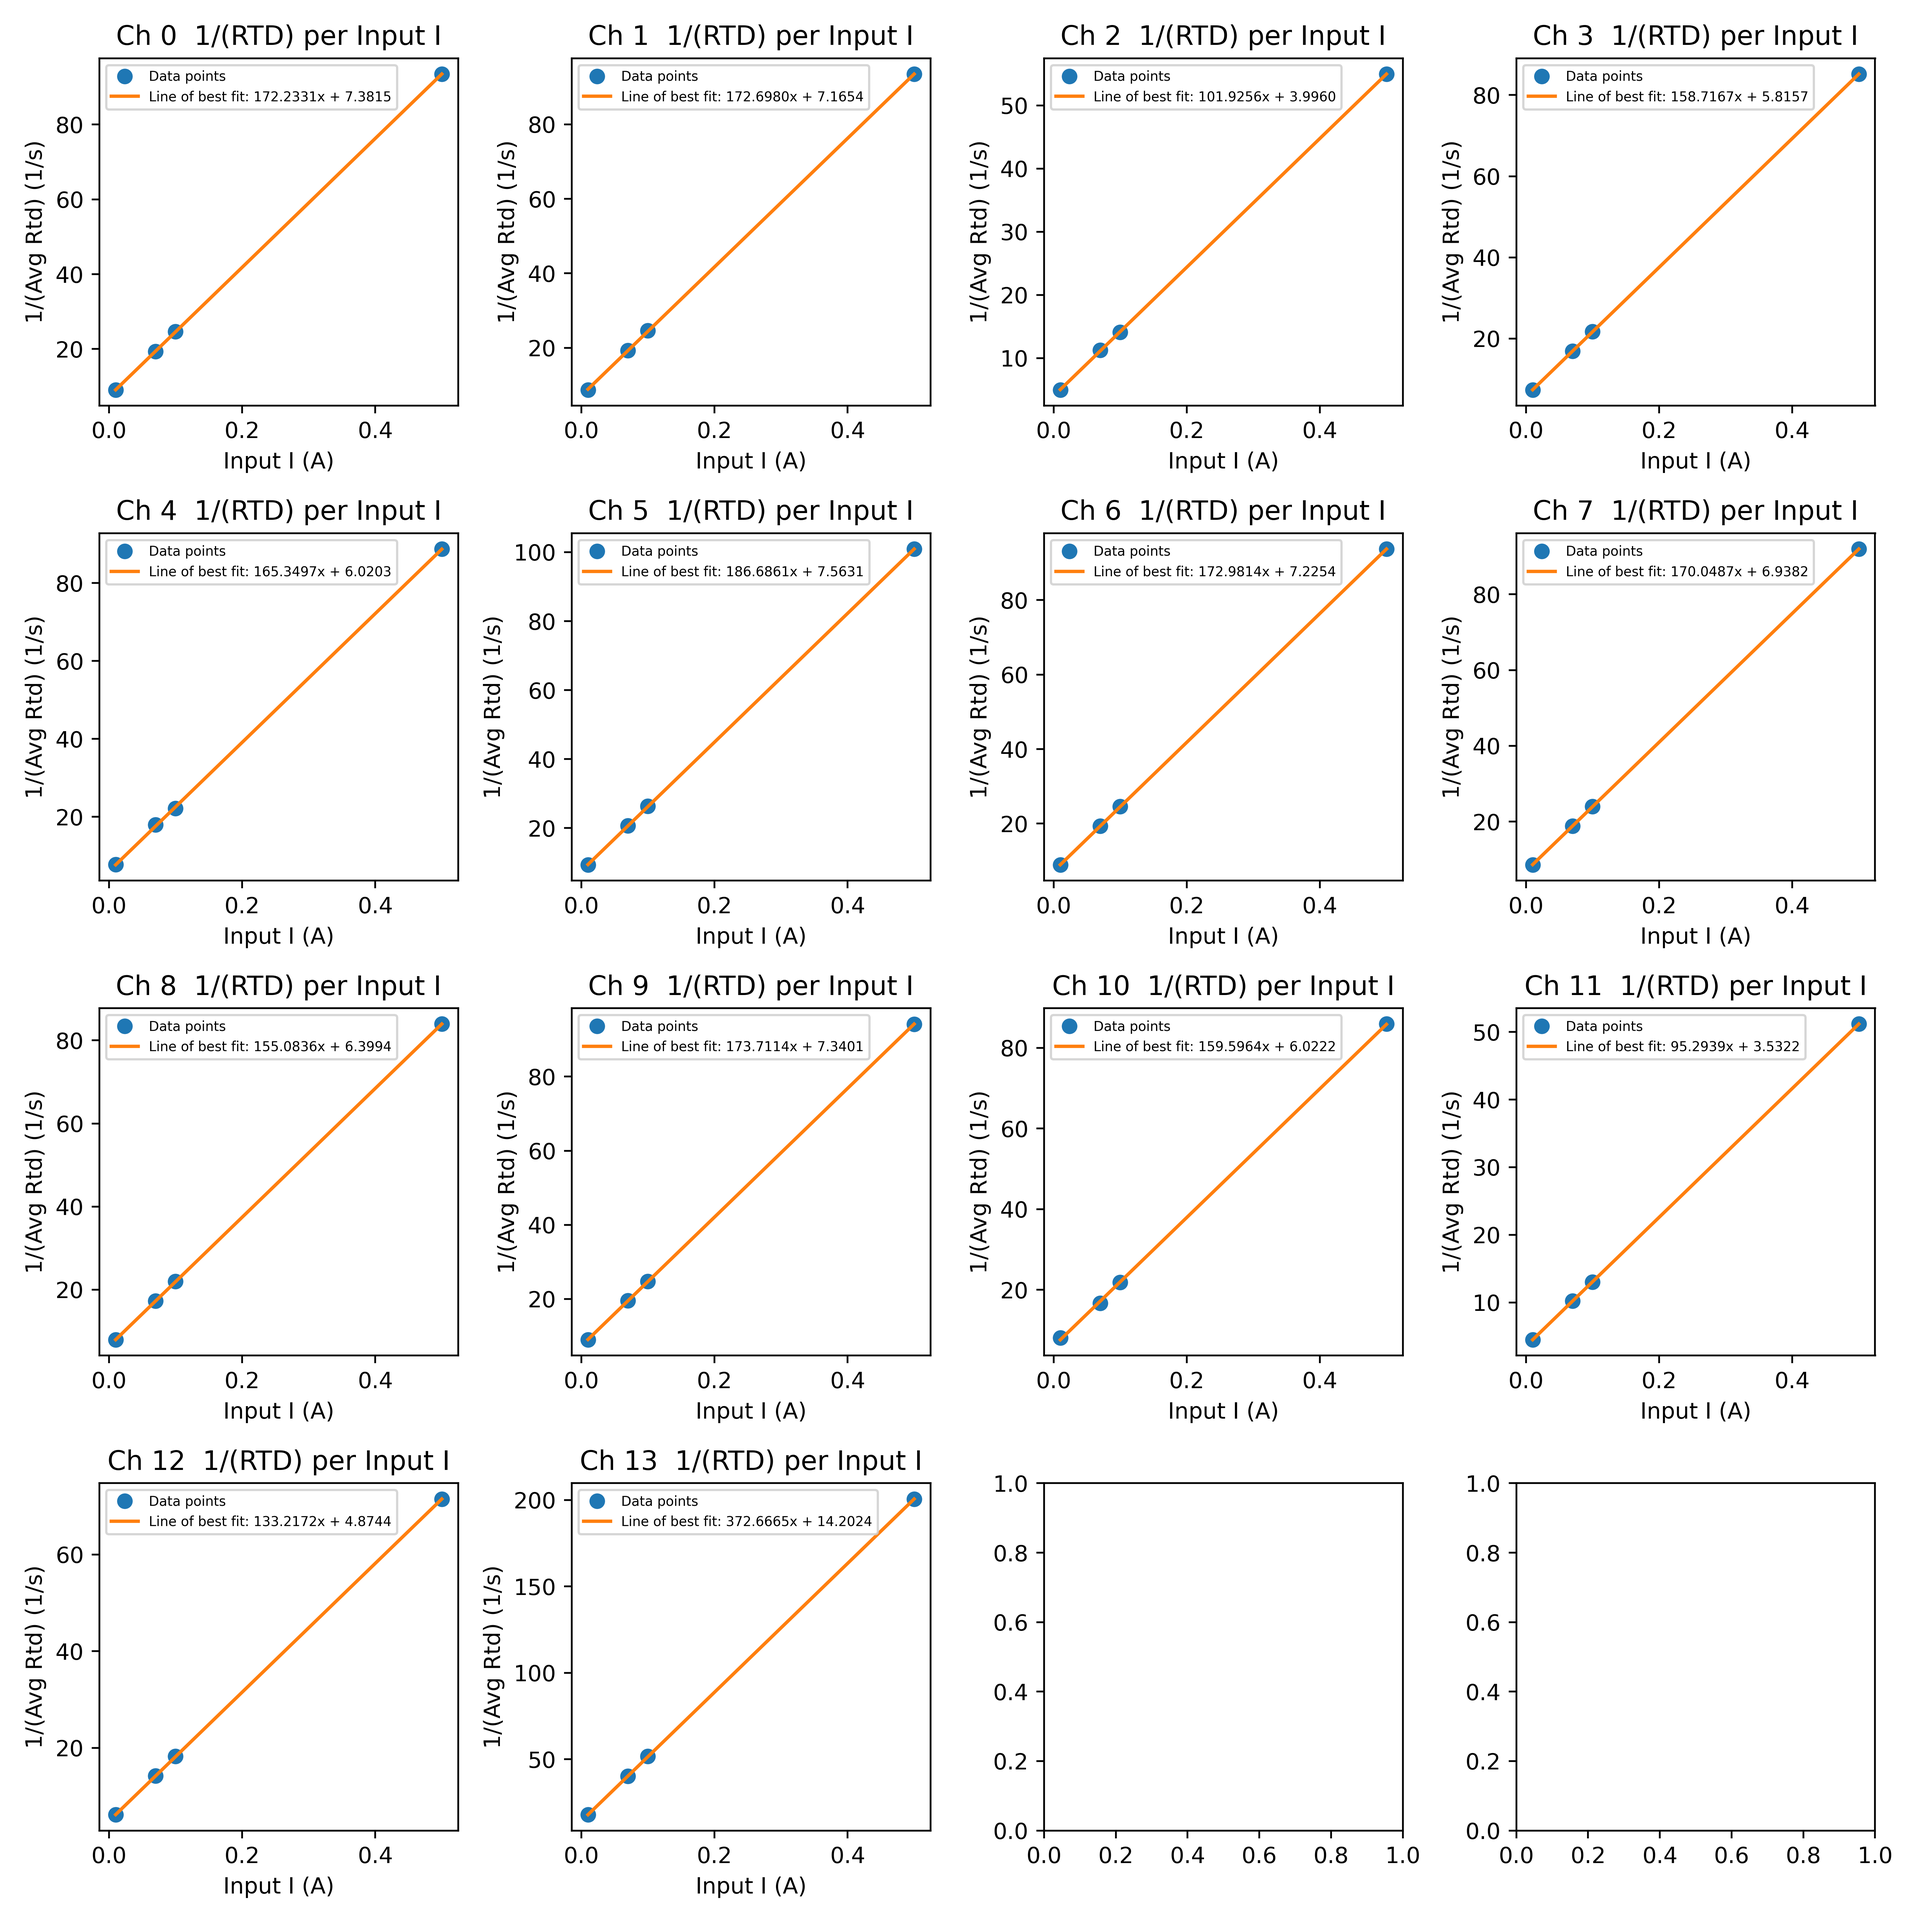
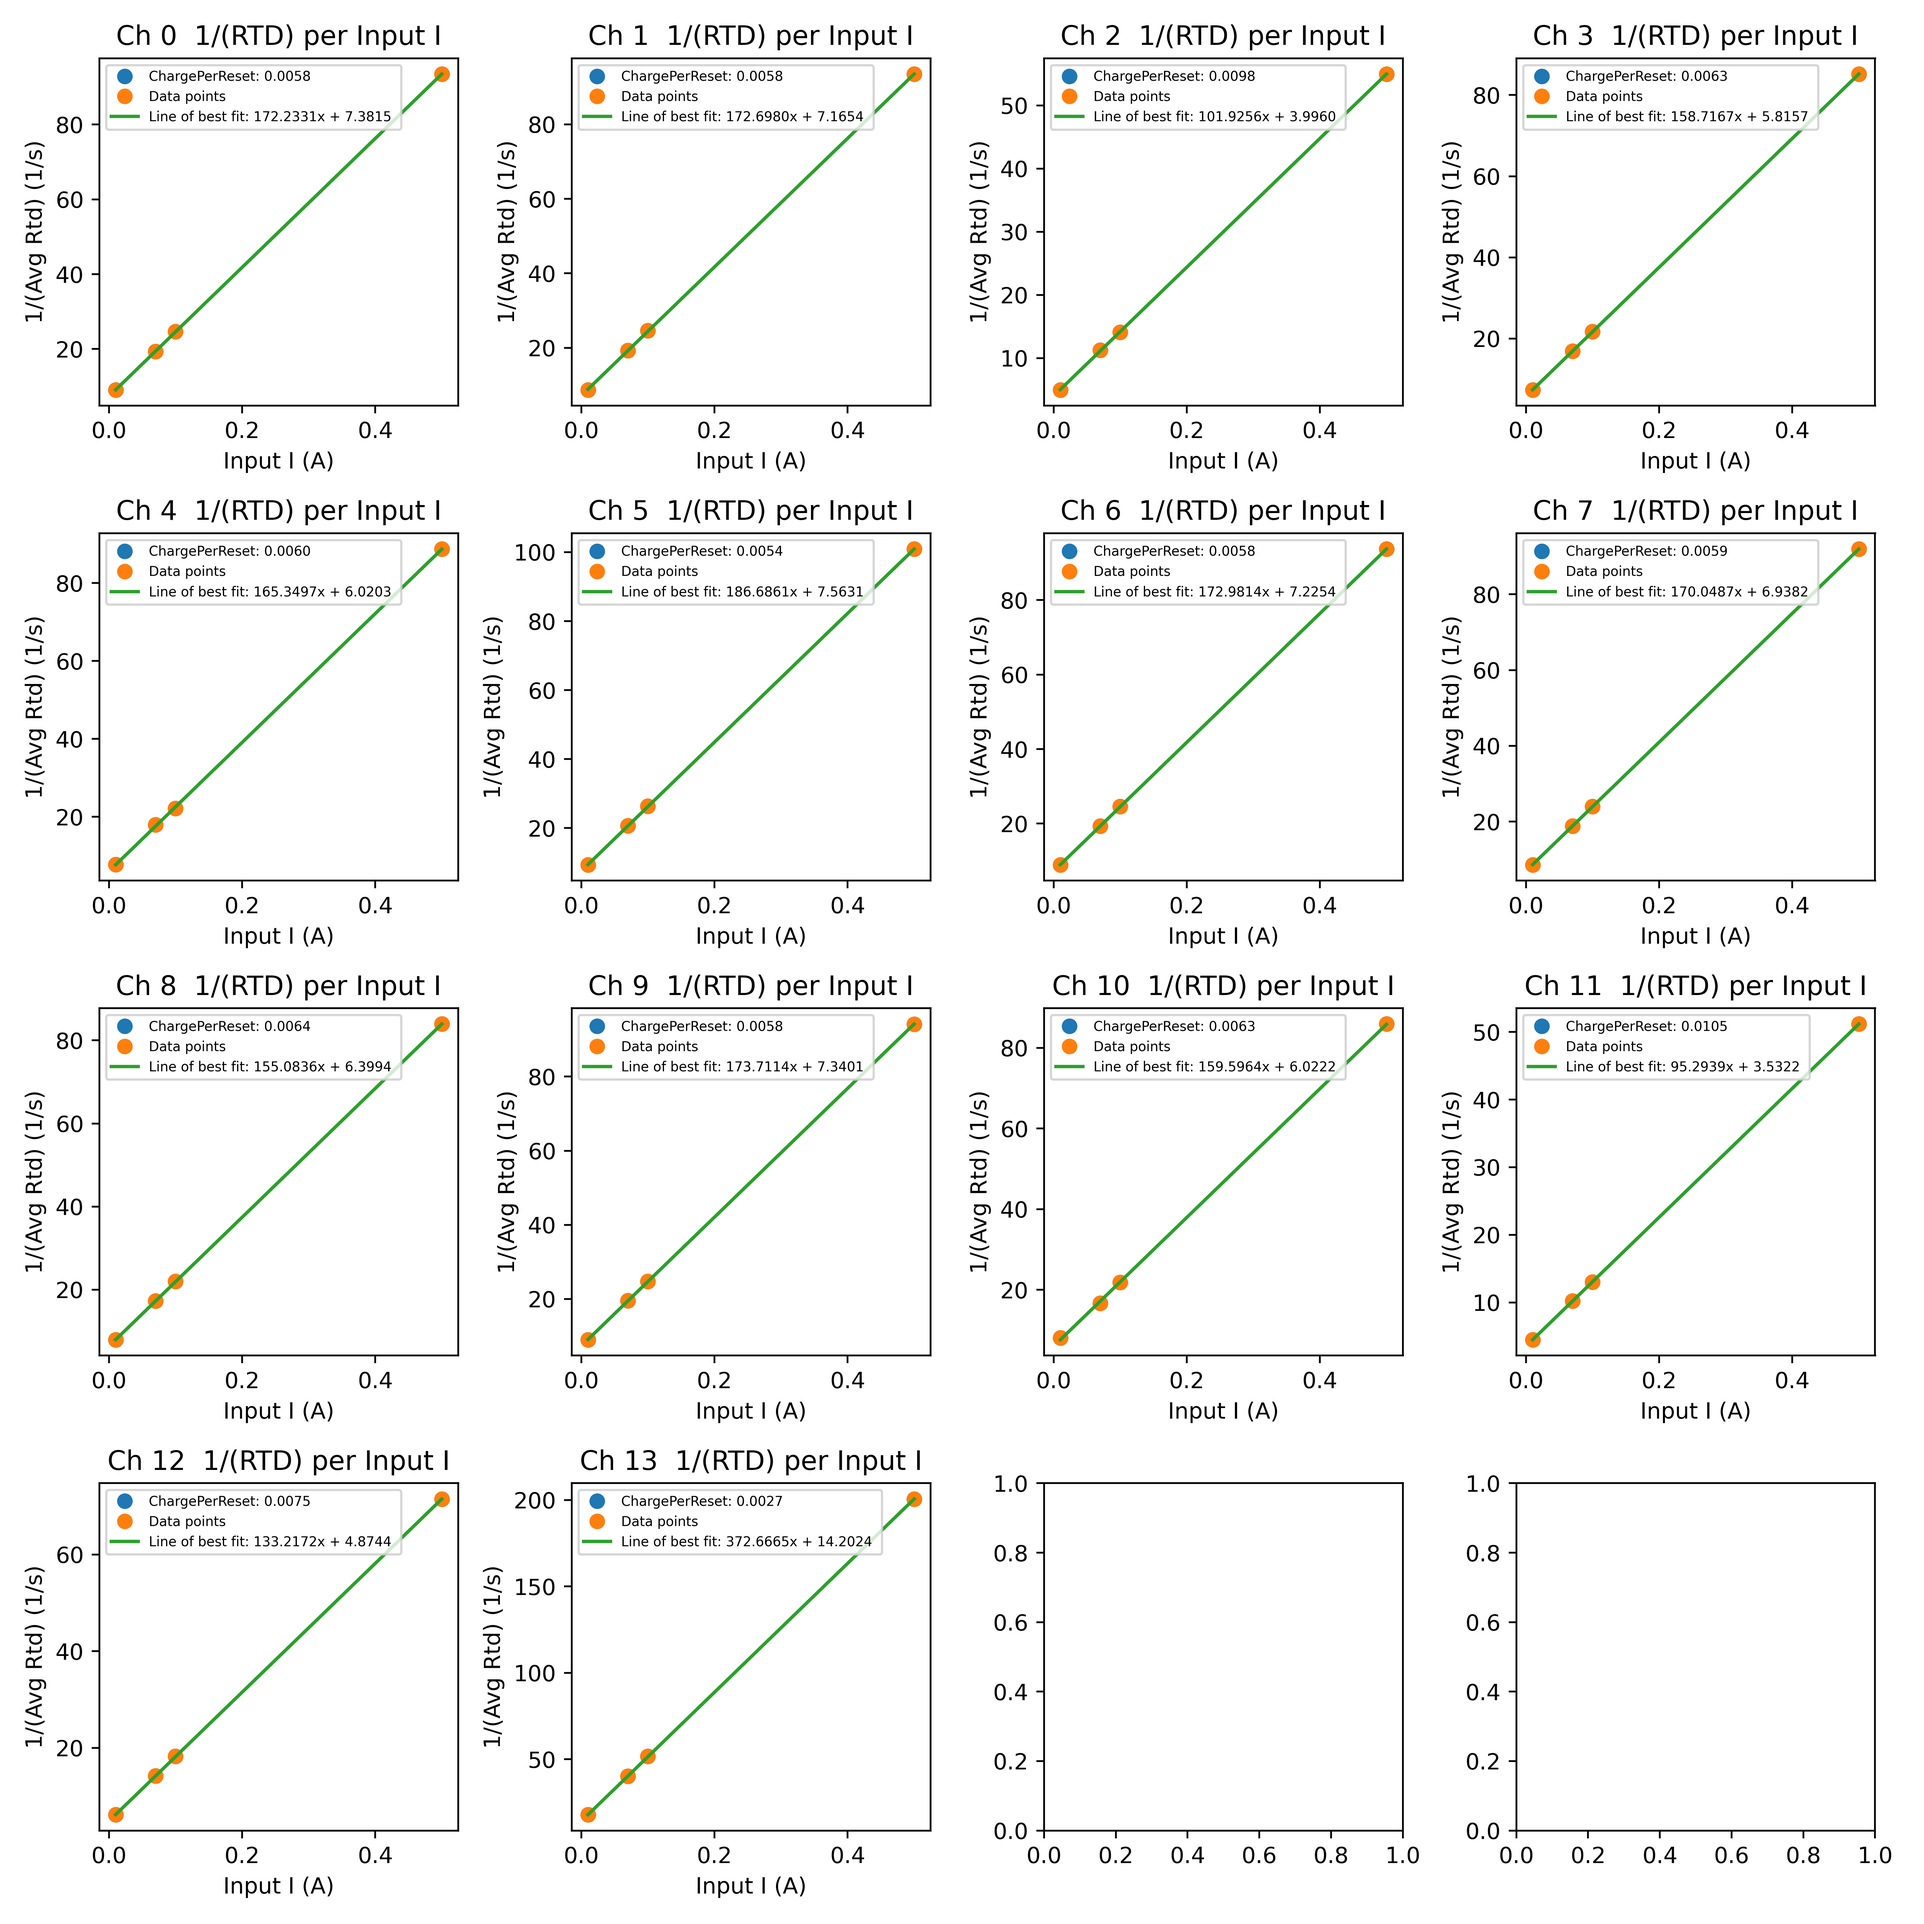
updated calibration code

diff --git a/Systematics Analysis/Calibration11162023/plotInverseAvgRtdsCurrentVargheseCalibration.py b/Systematics Analysis/Calibration11162023/plotInverseAvgRtdsCurrentVargheseCalibration.py
@@ -105,20 +105,21 @@ axs = axs.flatten()
 
 for i in range(14):
     x = [0.01, 0.07, 0.1, 0.5]
-    print(i)
     y = [1 / averageRtdLists[0][i], 1 / averageRtdLists[1][i], 1 / averageRtdLists[2][i], 1 / averageRtdLists[3][i]]
-    print(y)
 
     # Perform linear regression
-    coefficients = np.polyfit(x, y, 1)
+    coefficients = np.polyfit(x, y, 1) #returns slope and y intercept of fit as coefficients[0] and coefficients[1]
+    print(1/coefficients[0])
     polynomial = np.poly1d(coefficients)
     line_of_best_fit = polynomial(x)
 
     # Plot the data points
+    axs[i].plot(x, y, 'o', label=f'ChargePerReset: {1/coefficients[0]:.4f}')
     axs[i].plot(x, y, 'o', label='Data points')
 
     # Plot the line of best fit
-    axs[i].plot(x, line_of_best_fit, label=f'Line of best fit: {coefficients[0]:.4f}x + {coefficients[1]:.4f}')
+    axs[i].plot(x, line_of_best_fit, label=f'Line of best fit: {coefficients[0]:.4f}x + {coefficients[1]:.4f} ')
+
 
     # Set labels and title for the subplot
     axs[i].set_ylabel('1/(Avg Rtd) (1/s)')

diff --git a/Systematics Analysis/Calibration11152023/plotInverseAvgRtdsCurrentVargheseCalibration.py b/Systematics Analysis/Calibration11152023/plotInverseAvgRtdsCurrentVargheseCalibration.py
@@ -103,20 +103,21 @@ axs = axs.ravel()
 
 for i in range(14):
     x = [0.01, 0.07, 0.1, 0.5]
-    print(i)
     y = [1 / averageRtdLists[0][i], 1 / averageRtdLists[1][i], 1 / averageRtdLists[2][i], 1 / averageRtdLists[3][i]]
-    print(y)
 
     # Perform linear regression
-    coefficients = np.polyfit(x, y, 1)
+    coefficients = np.polyfit(x, y, 1) #returns slope and y intercept of fit as coefficients[0] and coefficients[1]
+    print(1/coefficients[0])
     polynomial = np.poly1d(coefficients)
     line_of_best_fit = polynomial(x)
 
     # Plot the data points
+    axs[i].plot(x, y, 'o', label=f'ChargePerReset: {1/coefficients[0]:.4f}')
     axs[i].plot(x, y, 'o', label='Data points')
 
     # Plot the line of best fit
-    axs[i].plot(x, line_of_best_fit, label=f'Line of best fit: {coefficients[0]:.4f}x + {coefficients[1]:.4f}')
+    axs[i].plot(x, line_of_best_fit, label=f'Line of best fit: {coefficients[0]:.4f}x + {coefficients[1]:.4f} ')
+
 
     # Set labels and title for the subplot
     axs[i].set_ylabel('1/(Avg Rtd) (1/s)')
